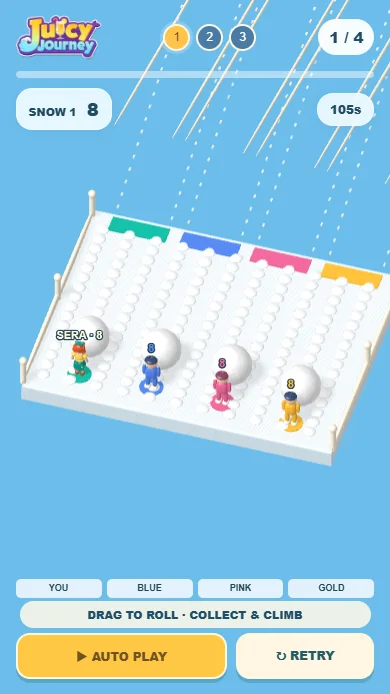
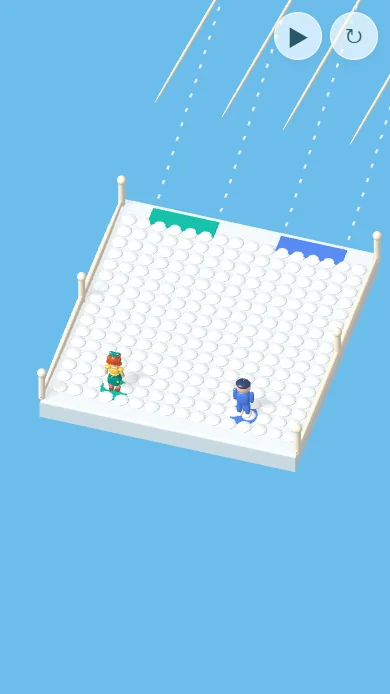
Make snow race a clean two-player experience with zero starting snow

diff --git a/bridge-race/index.html b/bridge-race/index.html
@@ -1,7 +1,7 @@
-<!doctype html><html lang="en"><head><meta charset="utf-8"><meta name="viewport" content="width=device-width,initial-scale=1,viewport-fit=cover"><title>Juicy Journey · Bridge Race</title><style>
-*{box-sizing:border-box}html,body{margin:0;height:100%;height:100dvh;overflow:hidden}body{background:#c0e2f0;display:grid;place-items:center;font-family:Arial,Helvetica,sans-serif;color:#214b60}button{font:inherit;font-weight:800;border:0;cursor:pointer;touch-action:manipulation}[hidden]{display:none!important}#stage{position:relative;width:min(100vw,56.25dvh,600px);height:min(100dvh,177.78vw,1066px);overflow:hidden;background:#77bae9;container-type:inline-size}#game,#fx{position:absolute;inset:0;width:100%;height:100%;touch-action:none}#fx{pointer-events:none}#hud{position:absolute;top:max(10px,env(safe-area-inset-top));left:4%;right:4%;pointer-events:none}.head{display:flex;align-items:center;gap:9px}.brand{width:24%;height:54px;object-fit:contain}.levelbar{flex:1;display:flex;align-items:center;justify-content:center;gap:6px}.level{width:27px;height:27px;border:2px solid #fff5de;border-radius:50%;background:#497ba6;color:#fff;font-size:12px;display:grid;place-items:center}.level.active{background:#ffc34a;color:#78542d;box-shadow:0 0 0 3px #fff3}.level.done{background:#13ae96}.rank{background:#ffffffef;padding:7px 11px;border-radius:20px;font-size:15px;font-weight:900;white-space:nowrap}.track{height:7px;background:#fff7;margin:7px 0 10px;border-radius:20px;overflow:hidden}#fill{height:100%;width:0;background:#13b89f}.stats{display:flex;justify-content:space-between;align-items:center}.pill{background:#effbffec;border:1px solid #fff7;border-radius:16px;padding:7px 12px;font-size:12px;font-weight:900;box-shadow:0 2px 8px #28476214}.pill strong{font-size:18px;padding-left:6px}.pill #stageLabel{font-size:11px}.timer{font-variant-numeric:tabular-nums}#runners{display:flex;gap:5px;position:absolute;left:4%;right:4%;bottom:96px;pointer-events:none}#runners span{position:relative;height:19px;flex:1;background:#f7fbffd9;border-radius:5px;overflow:hidden}#runners i{display:block;height:100%;background:var(--runner);opacity:.45}#runners b{position:absolute;inset:0;display:grid;place-items:center;font-size:9px;color:#204557}#controls{position:absolute;bottom:max(15px,env(safe-area-inset-bottom));left:4%;right:4%;display:flex;gap:9px;height:46px}#controls button{border-radius:14px;border:2px solid #fff8dc;background:#fff6e1;color:#245b66;box-shadow:0 4px 0 #245b6740;font-size:12px}#auto{flex:1.6;background:#ffc844!important;color:#705223!important}#retry{flex:1}#guide{position:absolute;bottom:66px;left:5%;right:5%;text-align:center;color:#204d66;font-size:11px;font-weight:900;padding:6px 10px;border-radius:20px;background:#fff9e8de;pointer-events:none}#toast{position:absolute;left:50%;top:43%;transform:translate(-50%,-50%);padding:11px 20px;border-radius:20px;background:#fff6db;color:#355f67;font-weight:900;white-space:nowrap;box-shadow:0 5px 20px #193d5333;pointer-events:none}#result{position:absolute;inset:0;background:#233e5260;display:grid;place-items:center;z-index:4}.card{width:84%;max-height:calc(100% - 24px);overflow:auto;text-align:center;background:#fff8e7;padding:25px 20px;border:4px solid white;border-radius:28px;box-shadow:0 14px 45px #19354d40}.medal{font-size:51px;color:#e0a93a;line-height:1}.card h1{font-size:29px;line-height:1.2;margin:13px 0;color:#205e6a}.card p{font-size:14px;line-height:1.5;margin:10px auto;max-width:240px}.card strong{display:block;font-size:12px;color:#248a7a;margin:18px 0}.card button{min-height:46px;width:100%;border-radius:16px;background:#ffca55;color:#6c512b}.won .medal{color:#f0b733}#fallback{position:absolute;inset:0;background:#fff8e7;padding:35px;display:grid;place-items:center;font-size:18px;z-index:9}
-@container(max-width:270px){.brand{height:30px}.level{width:19px;height:19px;font-size:9px}.levelbar{gap:4px}.head{gap:4px}.rank{padding:5px 6px;font-size:10px}.pill{padding:5px 8px;font-size:9px}.pill strong{font-size:12px}#controls{height:29px;bottom:8px;gap:5px}#controls button{font-size:9px;border-radius:9px}#guide{bottom:41px;font-size:8px}#runners{bottom:64px}#runners span{height:14px}#runners b{font-size:7px}.track{margin:5px 0 6px}.card{padding:15px 10px;border-radius:20px}.medal{font-size:35px}.card h1{font-size:20px}.card p{font-size:11px}.card strong{font-size:9px;margin:10px 0}.card button{min-height:30px;font-size:10px}}
[1 lines of base64/hex data omitted]
+<!doctype html><html lang="en"><head><meta charset="utf-8"><meta name="viewport" content="width=device-width,initial-scale=1,viewport-fit=cover"><title>Juicy Journey · Snow Bridge Race</title><style>
+*{box-sizing:border-box}html,body{margin:0;width:100%;height:100%;height:100dvh;overflow:hidden}body{background:#6bbdeb;display:grid;place-items:center;font-family:Arial,Helvetica,sans-serif;color:#214b60}button{font:inherit;border:0;cursor:pointer;touch-action:manipulation}[hidden]{display:none!important}#stage{position:relative;width:100vw;height:100dvh;overflow:hidden;background:#6bbdeb}#game,#fx{position:absolute;inset:0;width:100%;height:100%;touch-action:none}#fx{pointer-events:none}#controls{position:absolute;top:max(12px,env(safe-area-inset-top));right:max(12px,env(safe-area-inset-right));display:flex;gap:8px;z-index:2}#controls button,.card button{width:48px;height:48px;border-radius:50%;border:1px solid #ffffffb3;background:#ffffffad;color:#26596c;font-size:22px;display:grid;place-items:center;box-shadow:0 2px 8px #183c5514;padding:0}button:focus-visible{outline:3px solid #ffc844;outline-offset:3px}#result{position:absolute;top:14%;left:50%;transform:translateX(-50%);z-index:4;width:min(220px,80%);pointer-events:none}.card{text-align:center;background:#fffaf1e8;padding:14px 18px;border:2px solid #ffffffbd;border-radius:22px;box-shadow:0 6px 24px #19354d24;pointer-events:auto}.medal{font-size:32px;color:#e0a93a;line-height:1}.card h1{font-size:22px;line-height:1.2;margin:8px 0 12px;color:#205e6a}.card button{margin:auto;background:#ffce65;color:#6c512b}.won .medal{color:#f0b733}#fallback{position:absolute;inset:0;background:#fff8e7;padding:35px;display:grid;place-items:center;font-size:18px;z-index:9}
+@media(orientation:landscape){#stage{width:56.25dvh}}
+</style></head><body><main id="stage"><canvas id="game" aria-label="Drag to steer Sera, collect snow and build stairs."></canvas><canvas id="fx" aria-hidden="true"></canvas><nav id="controls" aria-label="Game controls"><button id="auto" aria-label="Automatic play" aria-pressed="false">▶</button><button id="retry" aria-label="Retry">↻</button></nav><section id="result" hidden role="dialog" aria-modal="false" aria-labelledby="resultTitle"><div class="card"><div class="medal" aria-hidden="true">★</div><h1 id="resultTitle">Good Job!</h1><button id="resultRetry" aria-label="Retry">↻</button></div></section><div id="fallback" hidden>WebGL is required. Please open this playable in a current browser.</div></main><script id="juicy-journey-audio">(() => {
  'use strict';
  if(window.__journeyAudio)return;
  const effects=new Set();let pageHidden=false,adHidden=false;
@@ -130,7 +130,7 @@
   let focus=[-.6,.4,.8],eye=[13.4,21.4,18.8],vp;
   function updateCamera(x,z,dt=1,height=0){const amount=1-Math.exp(-dt*4);const tx=x*.1,tz=z-3;focus[0]+=(tx-focus[0])*amount;focus[2]+=(tz-focus[2])*amount;focus[1]+=(height-focus[1])*amount;
     eye=[focus[0]+6,focus[1]+22,focus[2]+20];vp=mul(ortho(-viewHeight*aspect/2,viewHeight*aspect/2,-viewHeight/2,viewHeight/2,.1,90),lookAt(eye,focus));}
-  function syncView(){const r=canvas.getBoundingClientRect(),a=r.width/r.height;const changed=Math.abs(a-aspect)>.001;aspect=a;logicalHeight=720/aspect;viewHeight=30;updateCamera(0,0,0);return changed;}
+  function syncView(){const r=canvas.getBoundingClientRect(),a=r.width/r.height;const changed=Math.abs(a-aspect)>.001;aspect=a;logicalHeight=720/aspect;viewHeight=Math.max(26,14/aspect);updateCamera(0,0,0);return changed;}
   syncView();
   let lightVP=mul(ortho(-18,18,-18,18,.1,75),lookAt([-10,26,15],[0,0,1]));
   const shadowTex=gl.createTexture();gl.bindTexture(gl.TEXTURE_2D,shadowTex);gl.texImage2D(gl.TEXTURE_2D,0,gl.RGBA,shadowSize,shadowSize,0,gl.RGBA,gl.UNSIGNED_BYTE,null);
@@ -174,11 +174,11 @@
   return {draw,project,motionVector,model,syncView,updateCamera,size:()=>({width:720,height:logicalHeight}),meshes:{rounded,sphere,cube,cylinder,cup,cone,ring},gl,gpu};
 }
 </script><script></script><script>const BridgeRules=(()=>{
- const LANES=[-4.8,-1.6,1.6,4.8],STEPS=28,GAP=.6,RISE=.18,STRIDE=28,COLORS=['#14bca5','#5588ed','#ed679b','#ffbd39'],ROLL_SCALE=1/3,PICKUP_INTERVAL=.24,DURATION=105,REFILL=12;
+ const LANES=[-2.5,2.5],STEPS=28,GAP=.6,RISE=.18,STRIDE=28,HALF_WIDTH=5,COLORS=['#14bca5','#5588ed'],ROLL_SCALE=1/3,PICKUP_INTERVAL=.24,REFILL=12;
  function rng(seed){let n=seed>>>0;return()=>{n+=0x6d2b79f5;let t=n;t=Math.imul(t^t>>>15,t|1);t^=t+Math.imul(t^t>>>7,t|61);return((t^t>>>14)>>>0)/4294967296;};}
- function init(seed=1){const random=rng(seed),s={seed,time:0,phase:'ready',winner:-1,events:[],placed:0,collected:32,actors:[],floors:[]};
-  for(let level=0;level<3;level++){const cells=[];for(let row=0;row<16;row++)for(let col=0;col<22;col++)cells.push({x:-6.3+col*.6,z:-level*STRIDE-4.5+row*.6,active:true,respawn:0,id:cells.length});s.floors.push({cells,stairs:LANES.map(()=>Array(STEPS).fill(-1))});}
-  for(let id=0;id<4;id++)s.actors.push({id,x:LANES[id],z:3.9+random()*.5,yaw:Math.PI,height:0,level:0,lane:id,load:8,collected:8,spent:0,goal:null,mode:'collect',walking:0,finished:false,pickupAt:0,speed:id===0?3.9:2.1+random()*.27,walkPhase:0,walkBlend:0,walkDistance:0});return s;
+ function init(seed=1){const random=rng(seed),s={seed,time:0,phase:'ready',winner:-1,events:[],placed:0,collected:0,actors:[],floors:[]};
+  for(let level=0;level<3;level++){const cells=[];for(let row=0;row<16;row++)for(let col=0;col<16;col++)cells.push({x:-4.5+col*.6,z:-level*STRIDE-4.5+row*.6,active:true,respawn:0,id:cells.length});s.floors.push({cells,stairs:LANES.map(()=>Array(STEPS).fill(-1))});}
+  for(let id=0;id<LANES.length;id++)s.actors.push({id,x:LANES[id],z:3.9+random()*.5,yaw:Math.PI,height:0,level:0,lane:id,load:0,collected:0,spent:0,goal:null,mode:'collect',walking:0,finished:false,pickupAt:0,speed:id===0?3.9:2.1+random()*.27,walkPhase:0,walkBlend:0,walkDistance:0});return s;
  }
  const progress=a=>a.level*STEPS+(a.level<3?Math.max(0,Math.min(STEPS,(-a.z-a.level*STRIDE-5.5)/GAP)):0);
  function target(s,a){const floor=s.floors[a.level];if(!floor)return null;
@@ -201,17 +201,16 @@
     if(f.stairs[a.lane][idx]<0){if(a.load>0){f.stairs[a.lane][idx]=a.id;a.load--;a.spent++;s.placed++;s.events.push({kind:'lay',actor:a.id,level:a.level,lane:a.lane,step:idx,time:s.time});}else{nz=center-5.5-idx*GAP+.015;a.mode='collect';if(a.id!==0||automatic){nz=a.z+a.speed*dt;nx=laneX;}}}
     const actualDepth=Math.max(0,center-5.5-nz);a.height=a.level*STEPS*RISE+(actualDepth>0?Math.min(STEPS,Math.floor(actualDepth/GAP)+1):0)*RISE;
     if(actualDepth>=STEPS*GAP){a.level++;a.mode='collect';a.goal=null;a.height=a.level*STEPS*RISE;a.z=-a.level*STRIDE+5.45;a.x=laneX;a.walking=Math.hypot(a.x-oldX,a.z-oldZ);if(a.level===3){a.finished=true;s.winner=a.id;s.phase=a.id===0?'won':'lost';s.reason=a.id===0?'First to the island summit!':'Another racer reached the summit first.';s.events.push({kind:'finish',actor:a.id,time:s.time});return;}s.events.push({kind:'floor',actor:a.id,level:a.level,time:s.time});continue;}
-   }else{a.height=a.level*STEPS*RISE;nx=Math.max(-6.75,Math.min(6.75,nx));nz=Math.max(center-5.5,Math.min(center+5.2,nz));}
+   }else{a.height=a.level*STEPS*RISE;nx=Math.max(-HALF_WIDTH+.25,Math.min(HALF_WIDTH-.25,nx));nz=Math.max(center-5.5,Math.min(center+5.2,nz));}
    a.x=nx;a.z=nz;a.walking=Math.hypot(nx-oldX,nz-oldZ);if(a.walking>.0001)a.yaw=Math.atan2(nx-oldX,nz-oldZ);
    // Collect one nearby snow patch at a time, independently of running speed.
    // Waiting for the next pickup remains valid at an AI target, so it cannot stall.
    if(a.z>=center-5.5&&a.load<36&&s.time>=a.pickupAt){let nearest=null,best=.66;for(const c of s.floors[a.level].cells)if(c.active){const d=Math.hypot(c.x-a.x,c.z-a.z);if(d<best){nearest=c;best=d;}}
-    if(nearest){nearest.active=false;nearest.respawn=s.time+REFILL;a.pickupAt=s.time+PICKUP_INTERVAL;const amount=Math.min(2,36-a.load);a.load+=amount;a.collected+=amount;s.collected+=amount;s.events.push({kind:'pick',actor:a.id,x:nearest.x,z:nearest.z,level:a.level,time:s.time});}}
+    if(nearest){nearest.active=false;nearest.respawn=s.time+REFILL;a.pickupAt=s.time+PICKUP_INTERVAL;a.load++;a.collected++;s.collected++;s.events.push({kind:'pick',actor:a.id,x:nearest.x,z:nearest.z,level:a.level,time:s.time});}}
   }
-  if(s.time>=DURATION){s.phase='lost';s.reason='The race clock ran out.';}
   if(s.events.length>300)s.events.splice(0,s.events.length-300);
  }
- return{init,step,progress,target,LANES,STEPS,GAP,RISE,STRIDE,COLORS,ROLL_SCALE,PICKUP_INTERVAL,DURATION,REFILL};
+ return{init,step,progress,target,LANES,STEPS,GAP,RISE,STRIDE,HALF_WIDTH,COLORS,ROLL_SCALE,PICKUP_INTERVAL,REFILL};
 })();
 if(typeof module!=='undefined')module.exports=BridgeRules;
 </script><script>(() => {
@@ -332,17 +331,15 @@ function drawSeraCanvas(ctx,draw,x,y,scale=1,walking=0,armsUp=false,phase=0){con
  const {meshes,model,project}=renderer;let baseY=0;
  function color(hex){return hex.match(/[a-f\d]{2}/gi).map(x=>parseInt(x,16)/255);}
  function add(scene,mesh,pos,scale,col,rot=[0,0,0],options={}){scene.push({mesh,model:model([pos[0],pos[1]+baseY,pos[2]],scale,rot),color:color(col),...options});}
- let seed=20261011,s=R.init(seed),auto=false,autoSession=false,paused=false,last=performance.now(),pointer=null,keys=new Set(),soundContext=null,lastSound=0,lastEvent=0,flights=[],sparks=[],toastUntil=0,frames=0;
+ let seed=20261011,s=R.init(seed),auto=false,paused=false,last=performance.now(),pointer=null,keys=new Set(),soundContext=null,lastSound=0,lastEvent=0,flights=[],frames=0;
  const MATERIALS=[1,2,3].map(level=>({name:'SNOW '+level,base:'#f5fbff',side:'#d9eaf4',roll:'#ffffff',trail:'#e1eef6',surface:6}));
  function sound(kind){if(!window.__journeyAudio.canPlayEffects())return;if(s.time-lastSound<.065&&kind!=='finish')return;lastSound=s.time;try{if(!soundContext){soundContext=new(window.AudioContext||window.webkitAudioContext)();window.__journeyAudio.registerContext(soundContext,{independent:true});}soundContext.resume().catch(()=>{});const t=soundContext.currentTime,notes=kind==='finish'?[523,659,784,1047]:kind==='lay'?[240,360]:kind==='pick'?[620]:[180,130];notes.forEach((freq,i)=>{const o=soundContext.createOscillator(),g=soundContext.createGain();o.type=kind==='lay'?'triangle':'sine';o.frequency.setValueAtTime(freq,t+i*.065);g.gain.setValueAtTime(.0001,t+i*.065);g.gain.exponentialRampToValueAtTime(.035,t+i*.065+.007);g.gain.exponentialRampToValueAtTime(.0001,t+i*.065+.12);o.connect(g);g.connect(soundContext.destination);o.start(t+i*.065);o.stop(t+i*.065+.15);});}catch{}}
- function reset(){seed++;s=R.init(seed);auto=false;autoSession=false;paused=false;pointer=null;keys.clear();flights=[];sparks=[];lastEvent=0;lastSound=-1;toastUntil=0;$('result').hidden=true;$('guide').hidden=false;last=performance.now();renderer.updateCamera(s.actors[0].x,s.actors[0].z,10,0);ui();}
- function start(){if(s.phase==='ready')s.phase='play';paused=false;$('guide').hidden=true;}
- function wake(){start();auto=false;autoSession=false;ui();}
- function ui(){const p=s.actors[0],ranks=s.actors.slice().sort((a,b)=>R.progress(b)-R.progress(a)),rank=ranks.findIndex(a=>a.id===0)+1;
-  $('load').textContent=p.load;$('rank').textContent=rank+' / 4';$('stageLabel').textContent=s.phase==='won'?'SUMMIT':MATERIALS[Math.min(2,p.level)].name;$('clock').textContent=Math.max(0,Math.ceil(R.DURATION-s.time))+'s';$('auto').textContent=auto?'Ⅱ PAUSE':paused?'▶ CONTINUE':'▶ AUTO PLAY';$('auto').setAttribute('aria-pressed',String(auto));$('fill').style.width=R.progress(p)/84*100+'%';
-  for(let i=0;i<3;i++)$('level'+i).className='level'+(i<p.level?' done':i===p.level?' active':'');
-  $('runners').innerHTML=s.actors.map(a=>'<span style="--runner:'+R.COLORS[a.id]+'"><i style="width:'+R.progress(a)/84*100+'%"></i><b>'+(a.id===0?'YOU':['BLUE','PINK','GOLD'][a.id-1])+'</b></span>').join('');
-  if(s.phase==='won'||s.phase==='lost'){auto=false;paused=false;$('result').hidden=false;$('resultTitle').textContent=s.phase==='won'?'Good Job!':'Try Again!';$('resultText').textContent=s.reason;$('resultStat').textContent=s.phase==='won'?'3 FLOORS · 84 STEPS · #1':Math.floor(R.progress(p))+' / 84 STEPS';$('result').classList.toggle('won',s.phase==='won');}
+ function reset(){seed++;s=R.init(seed);auto=false;paused=false;pointer=null;keys.clear();flights=[];lastEvent=0;lastSound=-1;$('result').hidden=true;last=performance.now();renderer.updateCamera(s.actors[0].x,s.actors[0].z,10,0);ui();}
+ function start(){if(s.phase==='ready')s.phase='play';paused=false;}
+ function wake(){start();auto=false;ui();}
+ function ui(){const ended=s.phase==='won'||s.phase==='lost';
+  $('controls').hidden=ended;$('auto').textContent=auto?'Ⅱ':'▶';$('auto').setAttribute('aria-pressed',String(auto));$('auto').setAttribute('aria-label',auto?'Pause automatic play':paused?'Continue automatic play':'Automatic play');
+  if(ended){auto=false;paused=false;$('result').hidden=false;$('resultTitle').textContent=s.phase==='won'?'Good Job!':'Try Again!';$('result').classList.toggle('won',s.phase==='won');}
  }
  function npc(scene,a){const col=R.COLORS[a.id],bob=Math.sin(a.walkPhase)**2*.06*a.walkBlend,c=Math.cos(a.yaw),sin=Math.sin(a.yaw);
   function part(mesh,x,y,z,scale,col,rot=[0,0,0]){add(scene,mesh,[a.x+x*c+z*sin,y+bob,a.z-x*sin+z*c],scale,col,[rot[0],rot[1]+a.yaw,rot[2]]);}
@@ -352,11 +349,11 @@ function drawSeraCanvas(ctx,draw,x,y,scale=1,walking=0,armsUp=false,phase=0){con
  function buildScene(){const scene=[],p=s.actors[0];baseY=0;
   // Render two adjacent floors while the camera follows the climber.
   for(let level=Math.max(0,p.level-1);level<=Math.min(3,p.level+1);level++){const y=level*R.STEPS*R.RISE,z=-level*R.STRIDE,m=MATERIALS[Math.min(level,2)];
-   add(scene,meshes.cube,[0,y-.38,z],[7,.38,5.5],m.side);add(scene,meshes.cube,[0,y-.035,z],[6.95,.04,5.47],m.base,[0,0,0],{surface:m.surface,rough:.62});
-   for(const x of [-7,7]){add(scene,meshes.rounded,[x,y+.2,z],[.11,.18,5.5],'#fff1dd');for(const zz of [-5.2,0,5.2]){add(scene,meshes.cylinder,[x,y+.65,z+zz],[.13,.65,.13],'#fff5df');add(scene,meshes.sphere,[x,y+1.32,z+zz],[.18,.18,.18],'#fff5df');}}
-   if(level===3){for(let x=-6;x<=6;x++)for(let zz=0;zz<2;zz++)add(scene,meshes.cube,[x,y+.013,z+4.3-zz*.5],[.49,.025,.24],(x+zz)%2?'#b8d3e3':'#fffafd');add(scene,meshes.cylinder,[0,y+1,z-1],[.5,.18,.5],'#c89a35');add(scene,meshes.cup,[0,y+1.8,z-1],[.65,.7,.65],'#ffcf45');add(scene,meshes.ring,[0,y+2.25,z-1],[.5,.35,.5],'#ffdc64');continue;}
-   const f=s.floors[level];for(const cell of f.cells){if(cell.active){if(cell.id%2===0)add(scene,meshes.sphere,[cell.x,y+.02,cell.z],[.29,.075,.29],'#fcfeff',[0,0,0],{surface:6,rough:.9});}else add(scene,meshes.rounded,[cell.x,y+.008,cell.z],[.28,.012,.28],m.trail,[0,0,0],{rough:.9});}
-   for(let lane=0;lane<4;lane++){const x=R.LANES[lane];add(scene,meshes.cube,[x,y+.028,z-4.9],[1.29,.04,.4],R.COLORS[lane]);for(const side of [-1,1]){const railZ=z-5.5-R.STEPS*R.GAP/2,railY=y+R.STEPS*R.RISE/2+.48;add(scene,meshes.rounded,[x+side*1.31,railY,railZ],[.062,.064,Math.hypot(R.STEPS*R.GAP,R.STEPS*R.RISE)/2],'#fff4df',[-Math.atan2(R.RISE,R.GAP),0,0]);}
+   add(scene,meshes.cube,[0,y-.38,z],[R.HALF_WIDTH,.38,5.5],m.side);add(scene,meshes.cube,[0,y-.035,z],[R.HALF_WIDTH-.05,.04,5.47],m.base,[0,0,0],{surface:m.surface,rough:.62});
+   for(const x of [-R.HALF_WIDTH,R.HALF_WIDTH]){add(scene,meshes.rounded,[x,y+.2,z],[.11,.18,5.5],'#fff1dd');for(const zz of [-5.2,0,5.2]){add(scene,meshes.cylinder,[x,y+.65,z+zz],[.13,.65,.13],'#fff5df');add(scene,meshes.sphere,[x,y+1.32,z+zz],[.18,.18,.18],'#fff5df');}}
+   if(level===3){for(let x=-4;x<=4;x++)for(let zz=0;zz<2;zz++)add(scene,meshes.cube,[x,y+.013,z+4.3-zz*.5],[.49,.025,.24],(x+zz)%2?'#b8d3e3':'#fffafd');add(scene,meshes.cylinder,[0,y+1,z-1],[.5,.18,.5],'#c89a35');add(scene,meshes.cup,[0,y+1.8,z-1],[.65,.7,.65],'#ffcf45');add(scene,meshes.ring,[0,y+2.25,z-1],[.5,.35,.5],'#ffdc64');continue;}
+   const f=s.floors[level];for(const cell of f.cells){if(cell.active){add(scene,meshes.sphere,[cell.x,y+.02,cell.z],[.29,.075,.29],'#fcfeff',[0,0,0],{surface:6,rough:.9});}else add(scene,meshes.rounded,[cell.x,y+.008,cell.z],[.28,.012,.28],m.trail,[0,0,0],{rough:.9});}
+   for(let lane=0;lane<R.LANES.length;lane++){const x=R.LANES[lane];add(scene,meshes.cube,[x,y+.028,z-4.9],[1.29,.04,.4],R.COLORS[lane]);for(const side of [-1,1]){const railZ=z-5.5-R.STEPS*R.GAP/2,railY=y+R.STEPS*R.RISE/2+.48;add(scene,meshes.rounded,[x+side*1.31,railY,railZ],[.062,.064,Math.hypot(R.STEPS*R.GAP,R.STEPS*R.RISE)/2],'#fff4df',[-Math.atan2(R.RISE,R.GAP),0,0]);}
     for(let i=0;i<R.STEPS;i++){const owner=f.stairs[lane][i],sy=y+(i+1)*R.RISE,sz=z-5.5-(i+.5)*R.GAP;if(owner>=0)add(scene,meshes.cube,[x,sy-.15,sz],[1.24,.15,.3],m.side);if(owner>=0){add(scene,meshes.cube,[x,sy+.012,sz],[1.235,.021,.293],m.roll,[0,0,0],{surface:m.surface,rough:.88});add(scene,meshes.cube,[x,sy+.04,sz+.265],[1.18,.024,.025],R.COLORS[owner]);}else{for(const side of [-1,1])add(scene,meshes.cube,[x+side*1.22,sy+.02,sz],[.045,.025,.09],'#dae9ee');}}
    }
   }
@@ -371,7 +368,6 @@ function drawSeraCanvas(ctx,draw,x,y,scale=1,walking=0,armsUp=false,phase=0){con
  }
  function input(){if(pointer){const dx=Math.max(-1,Math.min(1,(pointer.x-pointer.ox)/60)),dy=Math.max(-1,Math.min(1,(pointer.y-pointer.oy)/60)),v=renderer.motionVector(dx,dy),n=Math.hypot(v.x,v.z);return n?{x:v.x/n*Math.min(1,Math.hypot(dx,dy)),z:v.z/n*Math.min(1,Math.hypot(dx,dy))}:{x:0,z:0};}const dx=Number(keys.has('ArrowRight')||keys.has('d'))-Number(keys.has('ArrowLeft')||keys.has('a')),dy=Number(keys.has('ArrowDown')||keys.has('s'))-Number(keys.has('ArrowUp')||keys.has('w')),v=renderer.motionVector(dx,dy),n=Math.hypot(v.x,v.z);return n?{x:v.x/n,z:v.z/n}:{x:0,z:0};}
  function paintOverlay(){const size=renderer.size();if(overlay.width!==720||overlay.height!==Math.round(size.height)){overlay.width=720;overlay.height=Math.round(size.height);}ctx.clearRect(0,0,720,size.height);ctx.lineJoin='round';ctx.textAlign='center';
-  for(const a of s.actors){if(Math.abs(a.level-s.actors[0].level)>1)continue;const q=project([a.x,a.height+2.22,a.z]);if(q.y<180||q.y>size.height-140)continue;ctx.font='bold 20px Arial';ctx.fillStyle=a.id===0?'#fff7d9':R.COLORS[a.id];ctx.strokeStyle='#254659';ctx.lineWidth=5;ctx.strokeText(a.id===0?'SERA · '+a.load:String(a.load),q.x,q.y);ctx.fillText(a.id===0?'SERA · '+a.load:String(a.load),q.x,q.y);}
   if(pointer){const rect=canvas.getBoundingClientRect(),scale=720/rect.width,x=pointer.ox*scale,y=pointer.oy*size.height/rect.height,dx=(pointer.x-pointer.ox)*scale,dy=(pointer.y-pointer.oy)*size.height/rect.height,n=Math.hypot(dx,dy),limit=74;ctx.beginPath();ctx.arc(x,y,82,0,Math.PI*2);ctx.fillStyle='#ffffff35';ctx.fill();ctx.lineWidth=3;ctx.strokeStyle='#ffffff99';ctx.stroke();ctx.beginPath();ctx.arc(x+dx/Math.max(1,n/limit),y+dy/Math.max(1,n/limit),30,0,Math.PI*2);ctx.fillStyle='#ffffffcc';ctx.fill();}
   if(s.phase==='won'){for(let i=0;i<70;i++){const x=(i*137.3+s.time*12)%720,y=(i*69.9+(s.time-20)*38)%size.height;ctx.fillStyle=['#ffe47a','#fff4c9','#22d1b0','#fb85ac'][i%4];ctx.fillRect(x,y,6,13);}}
  }
@@ -381,14 +377,14 @@ function drawSeraCanvas(ctx,draw,x,y,scale=1,walking=0,armsUp=false,phase=0){con
    for(const e of s.events){if(e.time<=lastEvent)continue;if(e.actor===0){if(e.kind==='pick')flights.push(e);if(e.kind==='pick'||e.kind==='lay')sound(e.kind);}}lastEvent=s.time;flights=flights.filter(f=>s.time-f.time<.36);
    if(before==='play'&&s.phase!=='play'){sound(s.phase==='won'?'finish':'lost');ui();}
   }else for(const a of s.actors)a.walking=0;
-  const p=s.actors[0];renderer.updateCamera(p.x,p.z,dt,p.height);renderer.draw(buildScene());paintOverlay();if(now-uiAt>120){ui();uiAt=now;}$('toast').hidden=s.time>=toastUntil;frames++;requestAnimationFrame(frame);
+  const p=s.actors[0];renderer.updateCamera(p.x,p.z,dt,p.height);renderer.draw(buildScene());paintOverlay();if(now-uiAt>120){ui();uiAt=now;}frames++;requestAnimationFrame(frame);
  }
  function point(e){const r=canvas.getBoundingClientRect();return{x:e.clientX-r.left,y:e.clientY-r.top};}
  canvas.addEventListener('pointerdown',e=>{if(s.phase==='won'||s.phase==='lost')return;wake();const q=point(e);pointer={id:e.pointerId,ox:q.x,oy:q.y,...q};canvas.setPointerCapture(e.pointerId);sound('pick');});
  canvas.addEventListener('pointermove',e=>{if(pointer?.id===e.pointerId)Object.assign(pointer,point(e));});
  for(const type of ['pointerup','pointercancel','lostpointercapture'])canvas.addEventListener(type,()=>{pointer=null;});
  window.addEventListener('keydown',e=>{if(['ArrowUp','ArrowDown','ArrowLeft','ArrowRight','w','a','s','d'].includes(e.key)){e.preventDefault();if(s.phase==='won'||s.phase==='lost')return;wake();keys.add(e.key);}});window.addEventListener('keyup',e=>keys.delete(e.key));window.addEventListener('blur',()=>{pointer=null;keys.clear();});
- $('auto').onclick=()=>{if(s.phase==='won'||s.phase==='lost')return;if(auto){auto=false;paused=true;}else{start();auto=true;autoSession=true;pointer=null;keys.clear();}ui();};$('retry').onclick=reset;$('resultRetry').onclick=reset;
+ $('auto').onclick=()=>{if(s.phase==='won'||s.phase==='lost')return;if(auto){auto=false;paused=true;}else{start();auto=true;pointer=null;keys.clear();}ui();};$('retry').onclick=reset;$('resultRetry').onclick=reset;
  document.addEventListener('visibilitychange',()=>{pointer=null;keys.clear();last=performance.now();});
  window.__bridge={state:()=>({phase:s.phase,paused,auto,seed:s.seed,time:s.time,actors:s.actors.map(a=>({...a})),placed:s.placed,collected:s.collected,frames,winner:s.winner}),reset,screen:(x,z,y=0)=>project([x,y,z])};
  if(new URLSearchParams(location.search).has('qa'))Object.assign(window.__bridge,{simulate:(seed=1)=>{const t=R.init(seed);t.phase='play';for(let i=0;i<10000&&t.phase==='play';i++)R.step(t,.016,{x:0,z:0},true);return{phase:t.phase,time:t.time,spent:t.actors[0].spent,collected:t.actors[0].collected,load:t.actors[0].load,placed:t.placed};},fail:()=>{s.phase='lost';s.reason='You slipped off the bridge.';ui();},teleport:(x,z,level=0,load=0)=>{const p=s.actors[0];Object.assign(p,{x,z,level,load});s.phase='play';}});

diff --git a/index.html b/index.html
@@ -166,8 +166,8 @@ main{max-width:1320px;margin:auto;padding:0 24px 24px}.toolbar{position:sticky;t
   <div class="card-body"><h2>堆叠合成接单</h2><span class="category">合成</span></div>
  </a></article>
 <article class="card" data-type="竞速">
- <a class="playable" href="bridge-race/index.html?v=bridge-snow-roll-independent-20261011" target="_blank" rel="noopener" aria-label="试玩：雪球搭桥竞速">
-  <div class="poster"><img data-src="bridge-race/preview.webp?v=bridge-snow-roll-independent-20261011" alt="雪球搭桥竞速预览"  decoding="async"><span class="play-mark" aria-hidden="true">▶</span></div>
+ <a class="playable" href="bridge-race/index.html?v=bridge-duel-clean-20261011" target="_blank" rel="noopener" aria-label="试玩：雪球搭桥竞速">
+  <div class="poster"><img data-src="bridge-race/preview.webp?v=bridge-duel-clean-20261011" alt="雪球搭桥竞速预览"  decoding="async"><span class="play-mark" aria-hidden="true">▶</span></div>
   <div class="card-body"><h2>雪球搭桥竞速</h2><span class="category">竞速</span></div>
  </a></article></section>
  <p class="empty" id="empty" hidden>没有找到试玩</p>

diff --git a/bridge-race/README.md b/bridge-race/README.md
@@ -1,37 +1,36 @@
 # Juicy Journey · Snow Bridge Race
 
-更新：2026-10-11。独立雪球搭桥竞速试玩，商标、3D 模型、规则和操作音效均内嵌在 index.html 中，单文件离线可玩。
+更新：2026-10-11。独立双人雪球搭桥竞速试玩，3D 模型、规则和操作音效均内嵌在 index.html 中，单文件离线可玩。
 
 ## 当前设计
 
-- Sera 主角：橙红侧辫、青色蝴蝶结、黄色上衣、青色花裙和棕色凉鞋，保留步行动作。
-- 三段连续雪地赛道、四条雪阶通道，与三名对手争夺终点。
-- 恢复人物原有移动速度：Sera 为 3.9 世界单位/秒，对手为 2.1–2.37 世界单位/秒。步行动作依据真实位移推进。
-- 雪球自转独立乘以三分之一，按实际位移累计；半径变大或变小时不跳转角度。收集间隔为 0.24 秒，每次只吸收最近的一块积雪（2 份），避免一次扫入多块导致猛涨。
-- 统一使用浅色雪地、白色雪球和浅蓝色压雪痕迹；移除木材、黑色块材、大理石材质及深色地面痕迹。
-- 起步携带 8 份积雪。滚过雪地收集积雪，雪球增大；每铺一级雪阶消耗一份，雪球缩小。携带上限 36，每段 28 级，共 84 级。
-- 未铺设雪阶不能通过；缺雪时返回当前平台收集。积雪补充间隔恢复为 12 秒。
-- 倒计时恢复为 105 秒，移动与雪球节奏分别控制。
-- 第一名到达终点成功；对手先到、失足或计时结束失败。结果保持，只有手动 RETRY 才重新开始。
+- Sera 与一名蓝色对手进行双人比赛，三段连续雪地赛道、两条雪阶通道。
+- 两名角色开局均为 0 份积雪。每拾取一个雪点仅增加 1 份，收集间隔 0.24 秒。每铺一级雪阶消耗 1 份，携带上限 36，每段 28 级，共 84 级。
+- Sera 保持 3.9 世界单位/秒的移动速度，对手为 2.1–2.37。步行动作随位移推进，雪球自转独立乘以三分之一。
+- 使用浅色雪地、白色雪球和浅蓝色压雪痕迹。每个有效雪点均可见，空载时不显示携带雪球。
+- 移除倒计时、排名、积雪数、人物标签、进度栏和解释性文字。手机竖屏游戏画面铺满屏幕；横屏保持完整竖屏构图，居中留两侧空间。
+- 仅保留角落的自动播放和重试图标，触控面积各 48 × 48 px。
+- 缺雪不能跨过未铺设的雪阶；雪点 12 秒补充。没有隐藏的时间限制。
+- 先到终点成功；对手先到或失足失败。简短结果提示保留最终场景，只有手动重试才重新开始。
 
 ## 操作
 
-手机在盘面按住拖动，通过虚拟摇杆控制 Sera；松手停止。电脑支持方向键/WASD。
+手机按住盘面拖动，以虚拟摇杆控制 Sera；松手停止。电脑支持方向键/WASD。
 
-AUTO PLAY 自动收集和铺阶，再次点击暂停整场比赛，再点继续；手动移动接管自动操作。页面不可见时停止比赛推进及声音。
+角落 ▶ 启动自动收集和铺阶，Ⅱ 暂停整场比赛，再点继续；手动移动接管自动操作。↻ 手动重玩。页面不可见时停止比赛推进及声音。
 
-完整竖屏构图，横屏浏览器居中显示并留两侧空间。独立试玩没有返回列表入口。
+独立试玩没有返回列表入口，也不提供下载按钮。
 
 ## 音效
 
-仅保留收集、铺阶、成功和失败的短音效。无 BGM、无音乐数据或音乐开关。
+仅保留收集、铺阶、成功和失败的短音效。无 BGM、音乐数据或音乐开关。
 
 ## 参考与实现范围
 
-参考用户提供的 Bridge Race 视频中收集材料、滚动携带、消耗铺阶和上楼比赛的关系。按最新反馈改为统一雪地、雪球表达。Sera 和其他角色、积雪、楼梯、奖杯及场景由本地 WebGL 绘制，未把原片截图作为运行素材。
+参考用户提供的 Bridge Race 视频中收集、滚动携带、消耗铺阶和上楼比赛的关系，并按用户要求调整为双人沉浸式雪地场景。Sera、对手、积雪、楼梯、奖杯及场景由本地 WebGL 绘制，未把原片截图作为运行素材。
 
 ## 验证与归档
 
-核对随机开局的自动通关、84 级雪阶和所有角色的“收集数 = 已消耗 + 携带数”。检查缺雪不能通过、两份积雪仅铺两级、对手获胜失败、真实手机拖动、自动暂停继续、成功保持、失败提示和手动重试。四种视口核对控件和页面边界。100 个随机开局均自动通关，规则模拟全程约 27–28 秒；真实浏览器全程约 26 秒；手机拖动约半秒移动 2.03 世界单位，核对完整通关和暂停。
+检查两名角色初始全部为零、每次拾取增加一份、84 级雪阶和材料守恒，缺雪不能通过、两份积雪仅铺两级、对手先到失败。400 次跨帧率规则模拟全部通关，约 34–39 秒；真实浏览器约 35 秒。核对真实手机拖动、自动暂停继续、完整通关、成功保持、失败提示、手动重试及四种视口的页面边界。
 
-ZIP 中的 HTML 与当前入口一致，单文件低于 5 MB；合集卡片在新窗口打开，不提供下载按钮。
+ZIP 中的 HTML 与当前入口一致，单文件低于 5 MB。

diff --git a/bridge-race/ASSET-NOTES.md b/bridge-race/ASSET-NOTES.md
@@ -1,8 +1,8 @@
 # 素材说明
 
 - 参考：用户提供的 Bridge Race 360 × 640 MP4，仅用于分析玩法和场景。
-- 商标：合集现有 Juicy Journey WebP，内嵌 HTML。
+- 本次沉浸式版本移除商标与信息栏，无外部图片资源。
 - Sera：合集既有本地程序化模型，保留转身、摆臂和步行动作。
-- 雪地、雪球、压雪痕迹、雪阶、其他人物及奖杯：本地 WebGL 网格和着色器绘制；采用白色及浅蓝雪地色，不使用黑色块材或深色大理石。
+- 雪地、雪球、压雪痕迹、雪阶、蓝色对手及奖杯：本地 WebGL 网格和着色器绘制；采用白色及浅蓝雪地色，不使用黑色块材或深色大理石。
 - 音效：浏览器合成短音，无 BGM 或音乐开关。未使用原视频音轨。
 - source/ 为本地维护文件；运行只需 index.html。

diff --git a/体积与音乐检查.md b/体积与音乐检查.md
@@ -2,7 +2,7 @@
 
 2026-10-11：当前 28 个独立试玩全部无 BGM、无音乐播放器和音乐开关，仅保留操作音效。
 
-全部 HTML 与本地 ZIP 低于 5,000,000 字节，逐一核对归档中的 HTML 与入口一致。雪球搭桥恢复人物移动原速，单独放慢雪球积累和自转，保留统一雪地材质。
+全部 HTML 与本地 ZIP 低于 5,000,000 字节，逐一核对归档中的 HTML 与入口一致。雪球搭桥更新为双人沉浸式比赛，零积雪起步，每次拾取加一份；保留独立放慢的雪球自转和无 BGM。
 
 | 试玩 | HTML MB | ZIP MB |
 | --- | ---: | ---: |
@@ -33,4 +33,4 @@
 | 同色双点连线 | 0.283 | 0.099 |
 | 贪吃蛇重力解谜 | 0.119 | 0.081 |
 | 堆叠合成接单 | 0.868 | 0.659 |
-| 雪球搭桥竞速 | 0.062 | 0.030 |
+| 雪球搭桥竞速 | 0.046 | 0.020 |
